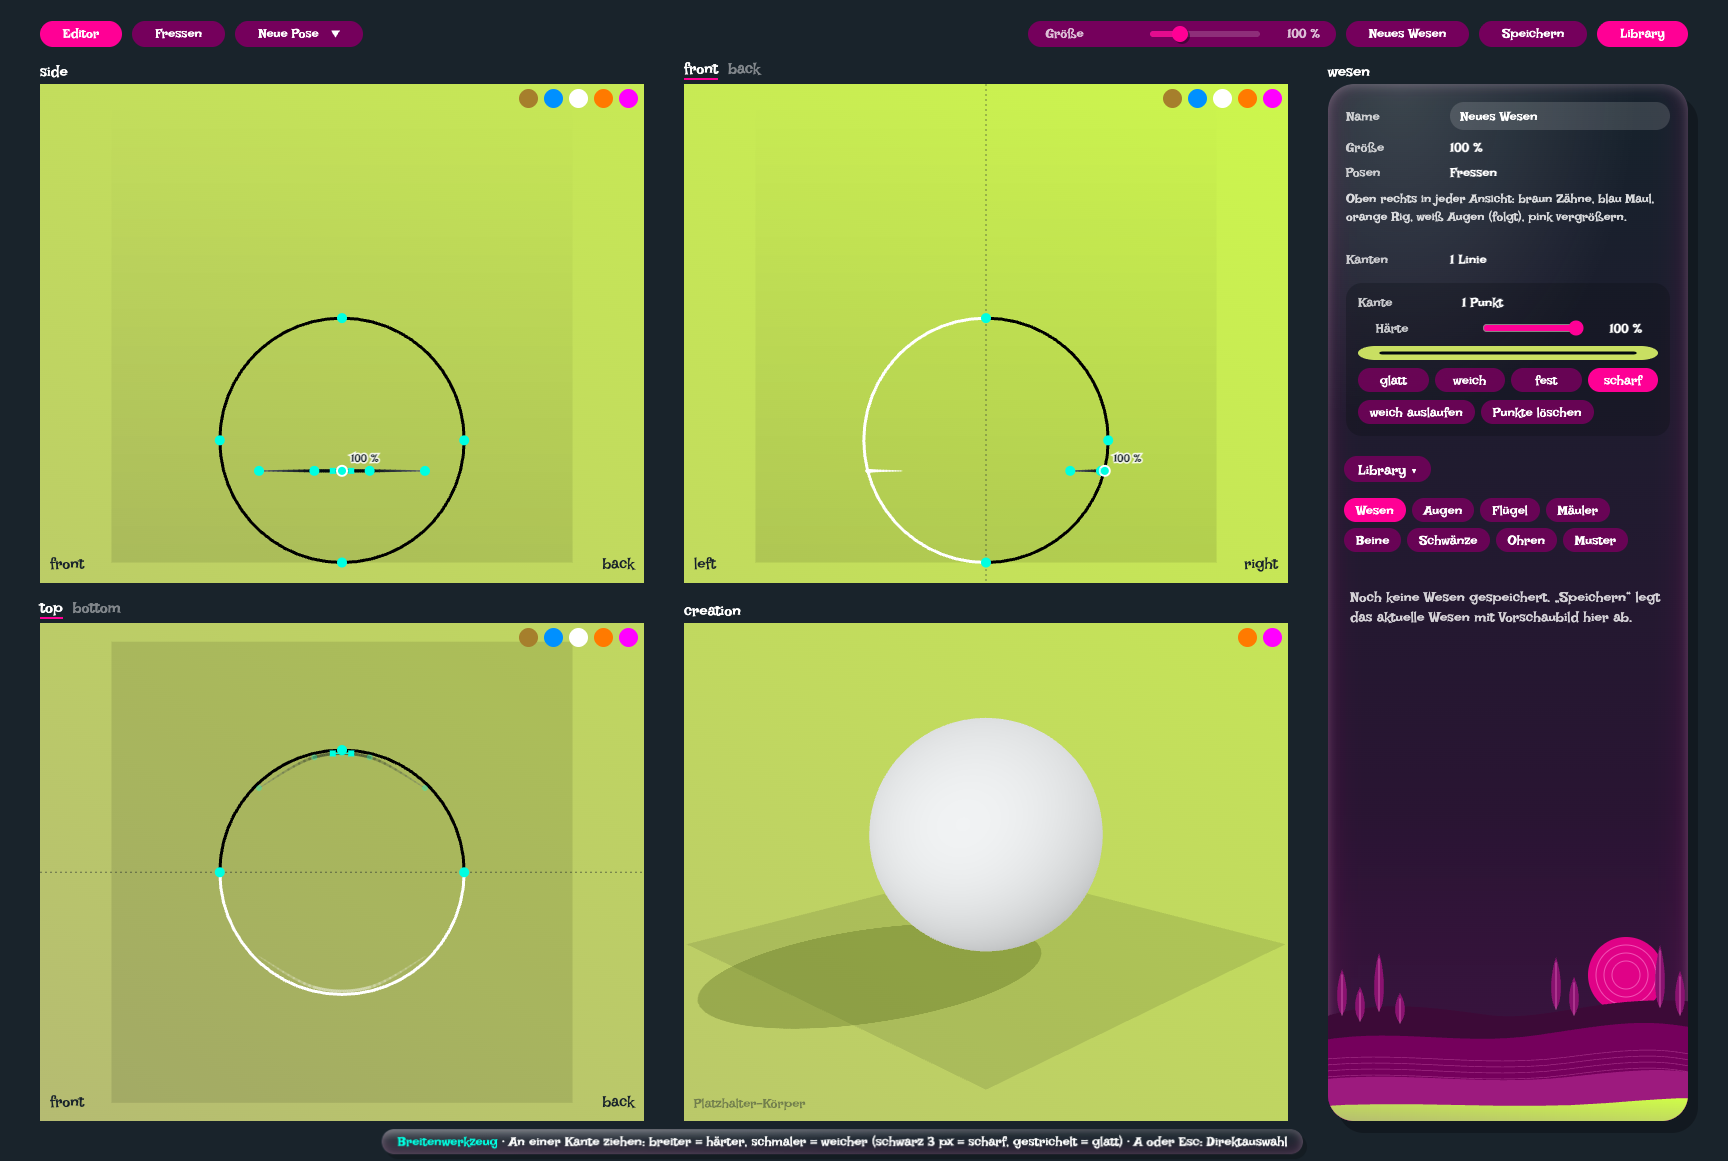
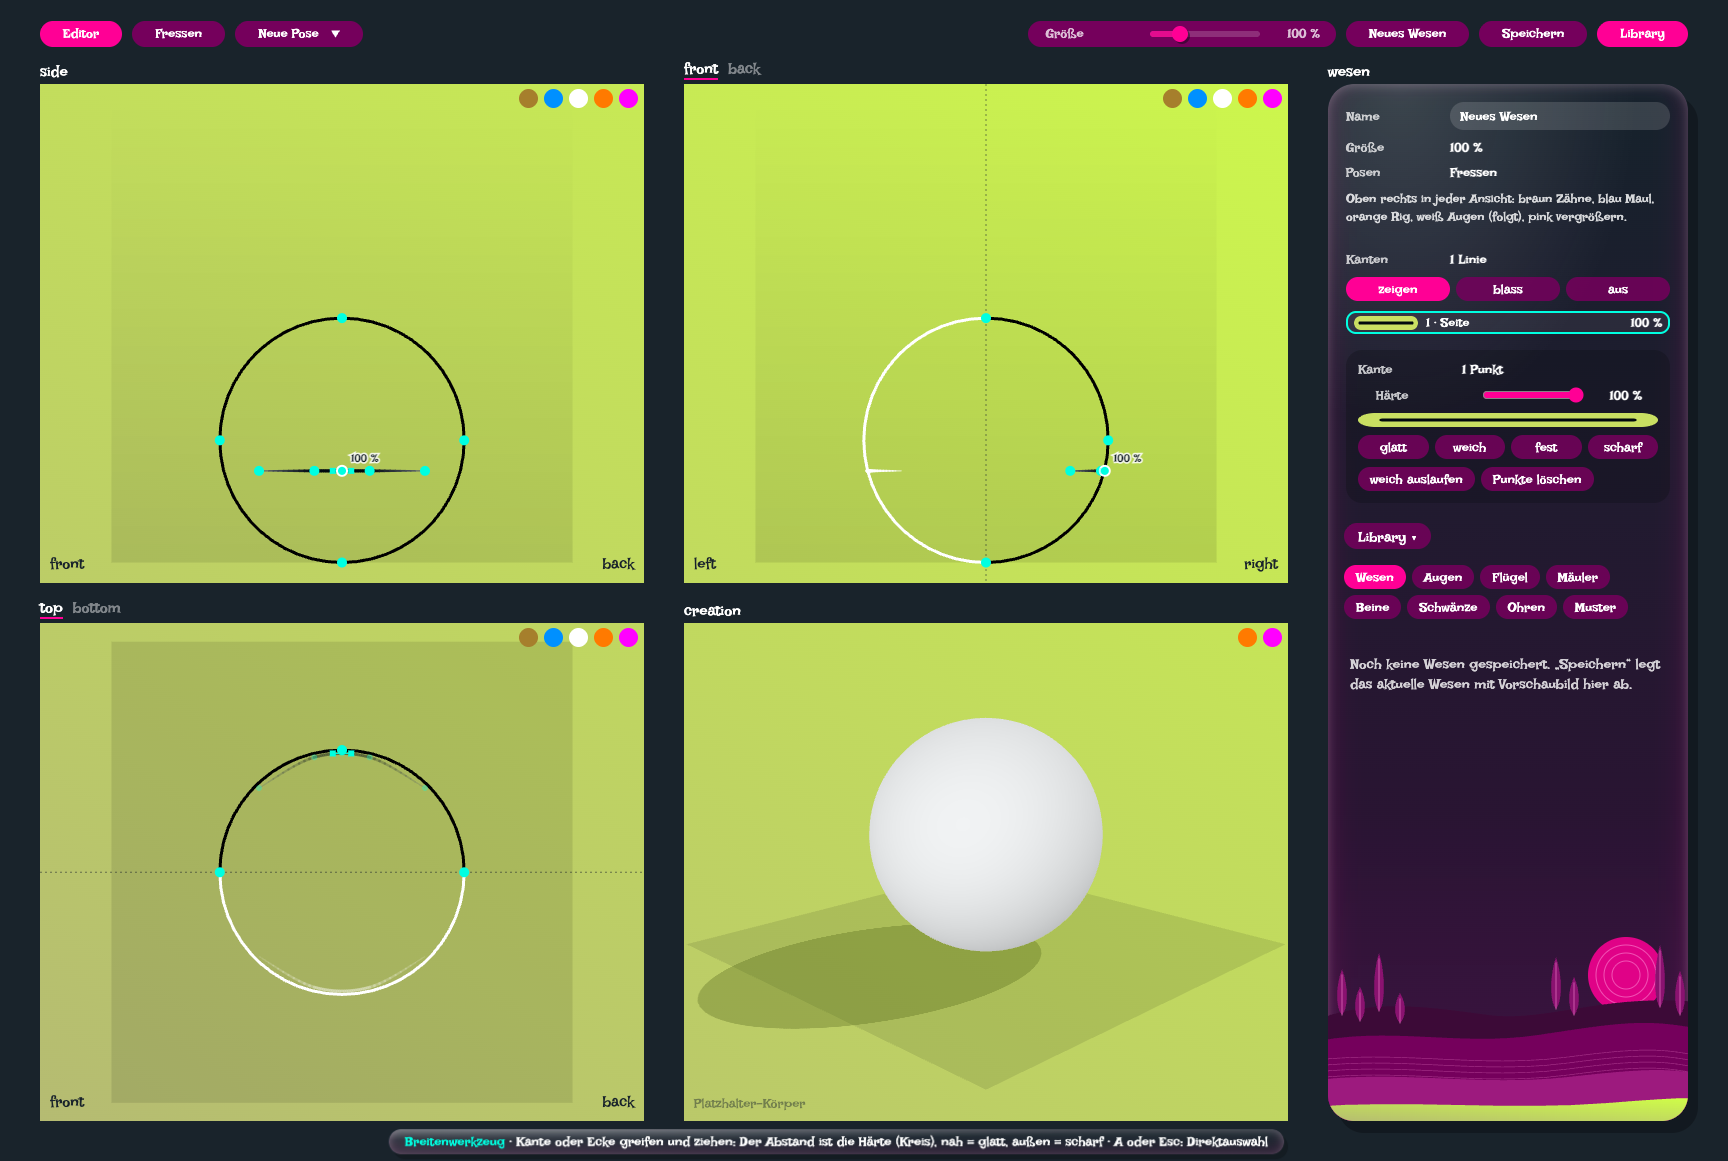
Kanten nach der Recherche: Strichelung zoomfest, mit wachsender Härte längere Striche bis zur Volllinie; Kantenliste und Ebenenschalter (zeigen, blass, aus) in der Seitenleiste; Falle: Store-Selektor mit neuem Array rendert endlos

Changed region(s): [[0.7812, 0.2171, 0.9688, 0.6202], [0.2188, 0.9612, 0.75, 0.9922]]

diff --git a/apps/editor/src/kanten/KantenEbene.tsx b/apps/editor/src/kanten/KantenEbene.tsx
@@ -58,37 +58,56 @@ function striche(dok: Dokument, k: Kante | readonly { p: V3T; h: number }[], ans
   return out;
 }
 
-/** Striche zeichnen: glatte Läufe gestrichelt als ein Pfad (durchgehendes Muster), harte Stücke mit Breite und Grauwert. */
+/**
+ * Strichmuster nach Härte (Recherche 12.10.: Muster in Bildschirm-Pixeln, zoomfest; „längere Striche = sicherer“):
+ * 0 % gestrichelt 6/3, mit wachsender Härte längere Striche und kürzere Lücken, ab 25 % durchgezogen.
+ */
+export function strichMuster(h: number): string | undefined {
+  if (h < GLATT) return '6 3';
+  if (h < 0.12) return '10 2.5';
+  if (h < 0.25) return '18 1.5';
+  return undefined;
+}
+
+/**
+ * Striche zeichnen: Läufe mit gleichem Muster, gleicher Sichtbarkeit und Seite als ein Pfad (durchgehendes Muster),
+ * je Abschnitt Breite (1 → 3 px) und Grauwert nach der Härte.
+ */
 function StrichBild({ s }: { s: Strich[] }) {
   const teile: React.ReactNode[] = [];
   let lauf: Strich[] = [];
   const lauffertig = () => {
     if (!lauf.length) return;
     const f = lauf[0]!;
-    const d = `M${f.a.x.toFixed(1)} ${f.a.y.toFixed(1)}` + lauf.map((x) => `L${x.b.x.toFixed(1)} ${x.b.y.toFixed(1)}`).join('');
-    teile.push(<path key={`g${teile.length}`} d={d} fill="none" stroke={f.rechts ? dunkel(0) : weiss(0)} strokeWidth={1} strokeDasharray="4 3" opacity={f.sichtbar ? 1 : 0.25} />);
+    const muster = strichMuster(f.h);
+    if (muster) {
+      // gestrichelt: ein Pfad, Breite und Grau aus der mittleren Härte des Laufs
+      const h = lauf.reduce((a, x) => a + x.h, 0) / lauf.length;
+      const d = `M${f.a.x.toFixed(1)} ${f.a.y.toFixed(1)}` + lauf.map((x) => `L${x.b.x.toFixed(1)} ${x.b.y.toFixed(1)}`).join('');
+      teile.push(<path key={`g${teile.length}`} d={d} fill="none" stroke={f.rechts ? dunkel(h) : weiss(h)} strokeWidth={strichBreite(h)} strokeDasharray={muster} opacity={f.sichtbar ? 1 : 0.25} />);
+    } else {
+      for (const x of lauf) {
+        teile.push(
+          <line
+            key={`h${teile.length}`}
+            x1={x.a.x}
+            y1={x.a.y}
+            x2={x.b.x}
+            y2={x.b.y}
+            stroke={x.rechts ? dunkel(x.h) : weiss(x.h)}
+            strokeWidth={strichBreite(x.h)}
+            strokeLinecap="round"
+            opacity={x.sichtbar ? 1 : 0.25}
+          />,
+        );
+      }
+    }
     lauf = [];
   };
   for (const x of s) {
-    if (x.h < GLATT) {
-      if (lauf.length && (lauf[0]!.sichtbar !== x.sichtbar || lauf[0]!.rechts !== x.rechts)) lauffertig();
-      lauf.push(x);
-      continue;
-    }
-    lauffertig();
-    teile.push(
-      <line
-        key={`h${teile.length}`}
-        x1={x.a.x}
-        y1={x.a.y}
-        x2={x.b.x}
-        y2={x.b.y}
-        stroke={x.rechts ? dunkel(x.h) : weiss(x.h)}
-        strokeWidth={strichBreite(x.h)}
-        strokeLinecap="round"
-        opacity={x.sichtbar ? 1 : 0.25}
-      />,
-    );
+    const f = lauf[0];
+    if (f && (strichMuster(f.h) !== strichMuster(x.h) || f.sichtbar !== x.sichtbar || f.rechts !== x.rechts)) lauffertig();
+    lauf.push(x);
   }
   lauffertig();
   return <>{teile}</>;
@@ -102,13 +121,15 @@ export type EckKante = { quelle: { ansicht: Ansicht; knoten: number }; punkte: r
  * eine Ecke bilde, sollte diese als Kante in den anderen Ansichten erkennbar sein“). Ein Klick wählt die Ecke in ihrer
  * Ansicht.
  */
-export function EckKantenZeichnung({ ansicht, bild, aktiv, kanten }: { ansicht: Ansicht; bild: (p: V2) => V2; aktiv: boolean; kanten: readonly EckKante[] }) {
+export function EckKantenZeichnung({ ansicht, bild, aktiv: aktivTab, kanten }: { ansicht: Ansicht; bild: (p: V2) => V2; aktiv: boolean; kanten: readonly EckKante[] }) {
   const dok = useEditor((s) => s.dok);
   const blick = useUi((s) => blickVon(ansicht, s.blick));
+  const sicht = useUi((s) => s.kantenSicht);
+  const aktiv = aktivTab && sicht === 'zeigen';
   const eigene = kanten.map((e, i) => ({ e, i })).filter(({ e }) => e.quelle.ansicht !== ansicht);
-  if (!eigene.length) return null;
+  if (!eigene.length || sicht === 'aus') return null;
   return (
-    <g className="eckkanten">
+    <g className="eckkanten" opacity={sicht === 'blass' ? 0.35 : 1}>
       {eigene.map(({ e, i }) => {
         const pr = e.punkte.map((p, j) => ({ p: [...p] as V3T, h: e.haerte[j] ?? 1 }));
         return (
@@ -141,18 +162,21 @@ export function EckKantenZeichnung({ ansicht, bild, aktiv, kanten }: { ansicht: 
 }
 
 /** Kantenlinien einer Ansicht; im Form-Tab mit Knoten, Griffen und Trefferflächen. */
-export function KantenZeichnung({ ansicht, bild, aktiv }: { ansicht: Ansicht; bild: (p: V2) => V2; aktiv: boolean }) {
+export function KantenZeichnung({ ansicht, bild, aktiv: aktivTab }: { ansicht: Ansicht; bild: (p: V2) => V2; aktiv: boolean }) {
   const dok = useEditor((s) => s.dok);
+  // Ebenenschalter: blass = nur zur Orientierung (nicht greifbar), aus = verborgen (außer beim Zeichnen)
+  const sicht = useUi((s) => s.kantenSicht);
+  const aktiv = aktivTab && sicht === 'zeigen';
   const blick = useUi((s) => blickVon(ansicht, s.blick));
   const auswahl = useUi((s) => s.kantenAuswahl);
   const zeichnen = useUi((s) => s.kanteZeichnen);
   // beim Breitenwerkzeug zeigt der Kreis die Zahl
   const breite = useUi((s) => s.breitenAnzeige?.ansicht === ansicht);
-  const kanten = dok.kanten ?? [];
+  const kanten = sicht === 'aus' ? [] : (dok.kanten ?? []);
   if (!kanten.length && !zeichnen) return null;
   const zug = (pts: V2[]) => pts.map((q, i) => `${i ? 'L' : 'M'}${q.x.toFixed(1)} ${q.y.toFixed(1)}`).join('');
   return (
-    <g className={aktiv ? 'kanten aktiv' : 'kanten'} pointerEvents={aktiv ? 'auto' : 'none'}>
+    <g className={aktiv ? 'kanten aktiv' : 'kanten'} pointerEvents={aktiv ? 'auto' : 'none'} opacity={sicht === 'blass' ? 0.35 : 1}>
       {kanten.map((k, ki) => (
         <g key={ki} data-kante={ki} pointerEvents="none">
           {ansicht !== 'seite' && <StrichBild s={striche(dok, k, ansicht, blick, bild, true)} />}
@@ -213,7 +237,7 @@ export function KantenZeichnung({ ansicht, bild, aktiv }: { ansicht: Ansicht; bi
         })}
       {zeichnen && zeichnen.ansicht === ansicht && zeichnen.blick === blick && zeichnen.knoten.length > 0 && (
         <g className="kante-zeichnen" pointerEvents="none">
-          <path d={zug(zeichnen.knoten.map((p) => bild(inAnsicht2(p, ansicht))))} fill="none" stroke={dunkel(0)} strokeWidth={1} strokeDasharray="4 3" />
+          <path d={zug(zeichnen.knoten.map((p) => bild(inAnsicht2(p, ansicht))))} fill="none" stroke={dunkel(0)} strokeWidth={1} strokeDasharray="6 3" />
           {zeichnen.knoten.map((p, i) => {
             const q = bild(inAnsicht2(p, ansicht));
             return <circle key={i} cx={q.x} cy={q.y} r={PUNKT_R} fill="var(--punkt)" />;
@@ -300,6 +324,11 @@ export function kantenZeiger(e: React.PointerEvent, ctx: KantenKontext): boolean
   const q = ctx.lokal(e.clientX, e.clientY);
   const ziel = e.target as Element;
   const profilZiel = !!ziel.closest('[data-knoten],[data-griff],[data-kurve]');
+  // Ebenenschalter: blass oder aus = Kanten gesperrt
+  if (ui.kantenSicht !== 'zeigen' && !ui.kanteZeichnen) {
+    if (ui.werkzeug === 'stift' && !profilZiel) ui.zeigeHinweis('Kanten sind gesperrt (Seitenleiste: Kanten zeigen)');
+    return ui.werkzeug === 'stift' && !profilZiel;
+  }
 
   // laufender Zeichenstift: jeder Klick ein Punkt auf der Fläche, Doppelklick beendet
   if (ui.kanteZeichnen) {
@@ -486,7 +515,7 @@ export function BreitenKreis({ ansicht, bild }: { ansicht: Ansicht; bild: (p: V2
   return (
     <g className="breiten-kreis" pointerEvents="none">
       <circle cx={q.x} cy={q.y} r={BREITE_PX} fill="none" stroke="#19232b" strokeOpacity={0.25} strokeDasharray="2 3" />
-      <circle cx={q.x} cy={q.y} r={r} fill="rgba(25,35,43,0.10)" stroke={dunkel(b.h)} strokeWidth={strichBreite(b.h)} strokeDasharray={b.h < GLATT ? '4 3' : undefined} />
+      <circle cx={q.x} cy={q.y} r={r} fill="rgba(25,35,43,0.10)" stroke={dunkel(b.h)} strokeWidth={strichBreite(b.h)} strokeDasharray={strichMuster(b.h)} />
       <text className="kanten-wert" x={q.x + BREITE_PX + 4} y={q.y + 4}>
         {prozent(b.h)}
       </text>

diff --git a/apps/editor/src/leiste/Seitenleiste.tsx b/apps/editor/src/leiste/Seitenleiste.tsx
@@ -8,7 +8,7 @@ import { ladeAusBibliothek } from '../aktionen';
 import { useRahmen } from '../layout/animation';
 import { editorApi, useBibliothek } from '../library/speicher';
 import { aktuelleLippen, setzeLippen } from '../maul/MaulEbene';
-import { GLATT, dunkel, haerteSetzen, kanteAuslaufen, kantenKnotenLoeschen, strichBreite, useGewaehlteKante } from '../kanten/KantenEbene';
+import { dunkel, haerteSetzen, kanteAuslaufen, kantenKnotenLoeschen, strichBreite, strichMuster, useGewaehlteKante } from '../kanten/KantenEbene';
 import { useZahnMeldungen } from '../maul/ZahnEbene';
 import { aenderungAnwenden, befundText } from '../maul/zahnKoerper';
 import { useMaulInfo } from '../maul/maulKoerper';
@@ -77,12 +77,44 @@ function KantenVorschau({ h }: { h: number }) {
   return (
     <svg className="kanten-vorschau" width="100%" height="14" viewBox="0 0 120 14" preserveAspectRatio="none" aria-hidden="true">
       <rect width="120" height="14" rx="7" fill="#c9df62" />
-      {h < GLATT ? (
-        <line x1="10" y1="7" x2="110" y2="7" stroke={dunkel(0)} strokeWidth={1} strokeDasharray="4 3" />
-      ) : (
-        <line x1="10" y1="7" x2="110" y2="7" stroke={dunkel(h)} strokeWidth={strichBreite(h)} strokeLinecap="round" />
-      )}
+      <line x1="10" y1="7" x2="110" y2="7" stroke={dunkel(h)} strokeWidth={strichBreite(h)} strokeDasharray={strichMuster(h)} strokeLinecap={strichMuster(h) ? 'butt' : 'round'} />
     </svg>
+  );
+}
+
+const BLICK_NAMEN: Record<string, string> = { seite: 'Seite', front: 'Front', hinten: 'Back', top: 'Top', unten: 'Bottom' };
+
+/** Kantenliste (Recherche 12.10.: Überblick wie Mayas Satz-Fenster): Vorschau, Ansicht, höchste Härte; Klick wählt. */
+function KantenListe() {
+  // Selektor ohne `?? []`: ein neues leeres Array je Aufruf wäre jedes Mal ein anderer Stand (Endlosschleife)
+  const kanten = useEditor((s) => s.dok.kanten);
+  const gewaehlt = useUi((s) => s.kantenAuswahl?.kante ?? -1);
+  if (!kanten?.length) return null;
+  return (
+    <ul className="kanten-liste">
+      {kanten.map((k, i) => {
+        const h = Math.max(...k.haerte, 0);
+        return (
+          <li key={i}>
+            <button
+              className={i === gewaehlt ? 'kanten-eintrag aktiv' : 'kanten-eintrag'}
+              data-kanteneintrag={i}
+              onClick={() => {
+                const ui = useUi.getState();
+                ui.auswahlLeeren();
+                ui.setzeKantenAuswahl({ kante: i, indizes: k.knoten.map((_, j) => j) });
+              }}
+            >
+              <KantenVorschau h={h} />
+              <span>
+                {i + 1} · {BLICK_NAMEN[k.blick] ?? k.blick}
+              </span>
+              <b>{Math.round(h * 100)} %</b>
+            </button>
+          </li>
+        );
+      })}
+    </ul>
   );
 }
 
@@ -103,6 +135,7 @@ function KantenBereich() {
   const auswahl = useUi((s) => s.auswahl);
   const aktiv = useUi((s) => s.aktiv);
   const zeichnen = useUi((s) => s.kanteZeichnen);
+  const sicht = useUi((s) => s.kantenSicht);
   const profil = aktiv ? dok.profile[aktiv] : null;
   const ecken = aktiv && profil ? auswahl[aktiv].filter((i) => profil.knoten[i]?.art === 'ecke') : [];
   const geste = { onStart: () => useEditor.getState().beginGeste(), onEnde: () => useEditor.getState().endeGeste() };
@@ -170,6 +203,14 @@ function KantenBereich() {
         <span>Kanten</span>
         <b data-kantenanzahl={anzahl}>{anzahl === 1 ? '1 Linie' : `${anzahl} Linien`}</b>
       </div>
+      <div className="umschalter stufen" role="radiogroup" aria-label="Kanten zeigen">
+        {(['zeigen', 'blass', 'aus'] as const).map((k) => (
+          <button key={k} className={sicht === k ? 'chip aktiv' : 'chip'} data-kantensicht={k} onClick={() => useUi.getState().setzeKantenSicht(k)}>
+            {k}
+          </button>
+        ))}
+      </div>
+      <KantenListe />
       {inhalt}
     </section>
   );

diff --git a/apps/editor/src/state/uiStore.ts b/apps/editor/src/state/uiStore.ts
@@ -16,6 +16,8 @@ export type Werkzeug = 'auswahl' | 'stift' | 'plus' | 'minus' | 'breite';
 export type KantenAuswahl = { kante: number; indizes: number[] };
 /** Zeichenstift auf freier Fläche: neue Kantenlinie, bis Enter/Esc/Doppelklick. */
 export type KanteZeichnen = { blick: Blick; ansicht: Ansicht; knoten: V3T[] };
+/** Ebenenschalter der Kanten (Recherche 12.10.): zeigen, blass (nicht greifbar) oder aus. */
+export type KantenSicht = 'zeigen' | 'blass' | 'aus';
 /** Breitenwerkzeug beim Ziehen: Kreis um den Punkt, Radius = Härte (Weltpunkt in der Ansicht). */
 export type BreitenAnzeige = { ansicht: Ansicht; mitte: { x: number; y: number }; h: number };
 
@@ -61,6 +63,7 @@ type UiState = {
   kantenAuswahl: KantenAuswahl | null;
   kanteZeichnen: KanteZeichnen | null;
   breitenAnzeige: BreitenAnzeige | null;
+  kantenSicht: KantenSicht;
   /** liegt während Layout-Bewegungen oben */
   oben: ViewId | null;
   hover: ViewId | null;
@@ -86,6 +89,7 @@ type UiState = {
   setzeKantenAuswahl(a: KantenAuswahl | null): void;
   setzeKanteZeichnen(z: KanteZeichnen | null): void;
   setzeBreitenAnzeige(b: BreitenAnzeige | null): void;
+  setzeKantenSicht(k: KantenSicht): void;
   setzeHover(id: ViewId | null): void;
   setzeWerkzeug(w: Werkzeug): void;
   waehle(ansicht: Ansicht, indizes: number[]): void;
@@ -111,6 +115,7 @@ export const useUi = create<UiState>((set, get) => ({
   kantenAuswahl: null,
   kanteZeichnen: null,
   breitenAnzeige: null,
+  kantenSicht: 'zeigen',
   oben: null,
   hover: null,
   werkzeug: 'auswahl',
@@ -157,6 +162,9 @@ export const useUi = create<UiState>((set, get) => ({
   },
   setzeBreitenAnzeige(b) {
     set({ breitenAnzeige: b });
+  },
+  setzeKantenSicht(k) {
+    set({ kantenSicht: k, kantenAuswahl: k === 'zeigen' ? get().kantenAuswahl : null });
   },
   setzeHover(id) {
     set({ hover: id });

diff --git a/apps/editor/e2e/kanten.spec.ts b/apps/editor/e2e/kanten.spec.ts
@@ -73,6 +73,13 @@ test('Kanten: zeichnen, Härte, Breitenwerkzeug, auf der Fläche ziehen, lösche
   }
   await expect(page.locator('.leiste [data-kantenanzahl="1"]')).toBeVisible();
   await expect(page.locator('.leiste [data-kantenmenue]')).toBeVisible();
+  // Kantenliste mit einem Eintrag; Ebenenschalter blass sperrt die Kanten, zeigen gibt sie frei
+  await expect(page.locator('.leiste [data-kanteneintrag]')).toHaveCount(1);
+  await page.click('.leiste [data-kantensicht="blass"]');
+  await expect(page.locator('.vp-ober[data-view="seite"] [data-kantenknoten]')).toHaveCount(0);
+  await page.click('.leiste [data-kantensicht="zeigen"]');
+  await page.click('.leiste [data-kanteneintrag="0"]');
+  await expect(page.locator('.vp-ober[data-view="seite"] [data-kantenknoten]')).toHaveCount(4);
   // die Kante erscheint auch in Front und Top
   await expect(page.locator('.vp-ober[data-view="front"] [data-kante="0"] *').first()).toBeAttached();
 

diff --git a/apps/editor/src/styles/editor.css b/apps/editor/src/styles/editor.css
@@ -528,6 +528,41 @@ button {
   flex: 1;
   padding: 0 6px;
 }
+.kanten-liste {
+  display: flex;
+  flex-direction: column;
+  gap: 4px;
+  max-height: 150px;
+  margin: 0;
+  padding: 0;
+  overflow-y: auto;
+  list-style: none;
+}
+.kanten-eintrag {
+  display: grid;
+  grid-template-columns: 64px 1fr auto;
+  align-items: center;
+  gap: 8px;
+  width: 100%;
+  padding: 4px 8px;
+  border: 0;
+  border-radius: 10px;
+  background: rgba(255, 255, 255, 0.06);
+  color: var(--weiss);
+  font: inherit;
+  font-size: 12.5px;
+  text-align: left;
+  cursor: pointer;
+}
+.kanten-eintrag:hover {
+  background: rgba(255, 255, 255, 0.12);
+}
+.kanten-eintrag.aktiv {
+  box-shadow: inset 0 0 0 2px var(--punkt);
+}
+.kanten-eintrag b {
+  font-variant-numeric: tabular-nums;
+}
 .kanten-wert {
   font-size: 11px;
   font-weight: 700;

diff --git a/apps/editor/CLAUDE.md b/apps/editor/CLAUDE.md
@@ -45,6 +45,7 @@ Wird geladen, sobald eine Sitzung in `apps/editor` arbeitet (zusätzlich zur Roo
 - **Catmull-Clark hier ohne Randregel:** Das Maul bleibt eine geschlossene Fläche (Naht plus Tasche), offene Ränder würden falsch geglättet.
 - **2D-Ebenen bauen das Maul nie selbst:** `maulZuletzt(dok)` liefert nur den gemerkten Bau. Sonst baute jede Ansicht während einer Geste neu (≈ 0,4 s). Neu zeichnen über `useMaulInfo`.
 - **Zahn-Prüfung dauert 75–185 ms:** Sie läuft nur ohne Geste (`gesteStart`), während einer Geste gilt `zahnMeldungenZuletzt()`.
+- **Zustand-Selektoren nie mit `?? []` oder `{...}`:** Ein neues Objekt je Aufruf gilt als neuer Stand, React rendert endlos („Maximum update depth exceeded“, Kantenliste 12.10.). Rohwert wählen, Standard außerhalb setzen.
 - **Regler behalten den Fokus:** Der Tastaturfilter darf nur Texteingaben ausnehmen. Sonst wirkt ⌘Z nach dem Ziehen eines Reglers nicht (Fehler 12.10.). Pfeiltasten bleiben beim Regler.
 - **Gemalte Flächen auf der Haut** (Augen-Versuch): Den Umlaufsinn nach der Hautnormalen ausrichten (das Material ist einseitig, Florians Umrisse laufen mal so, mal so). Linien wie das Lid als Strich bauen, nicht als Fläche zur Mitte.
 
